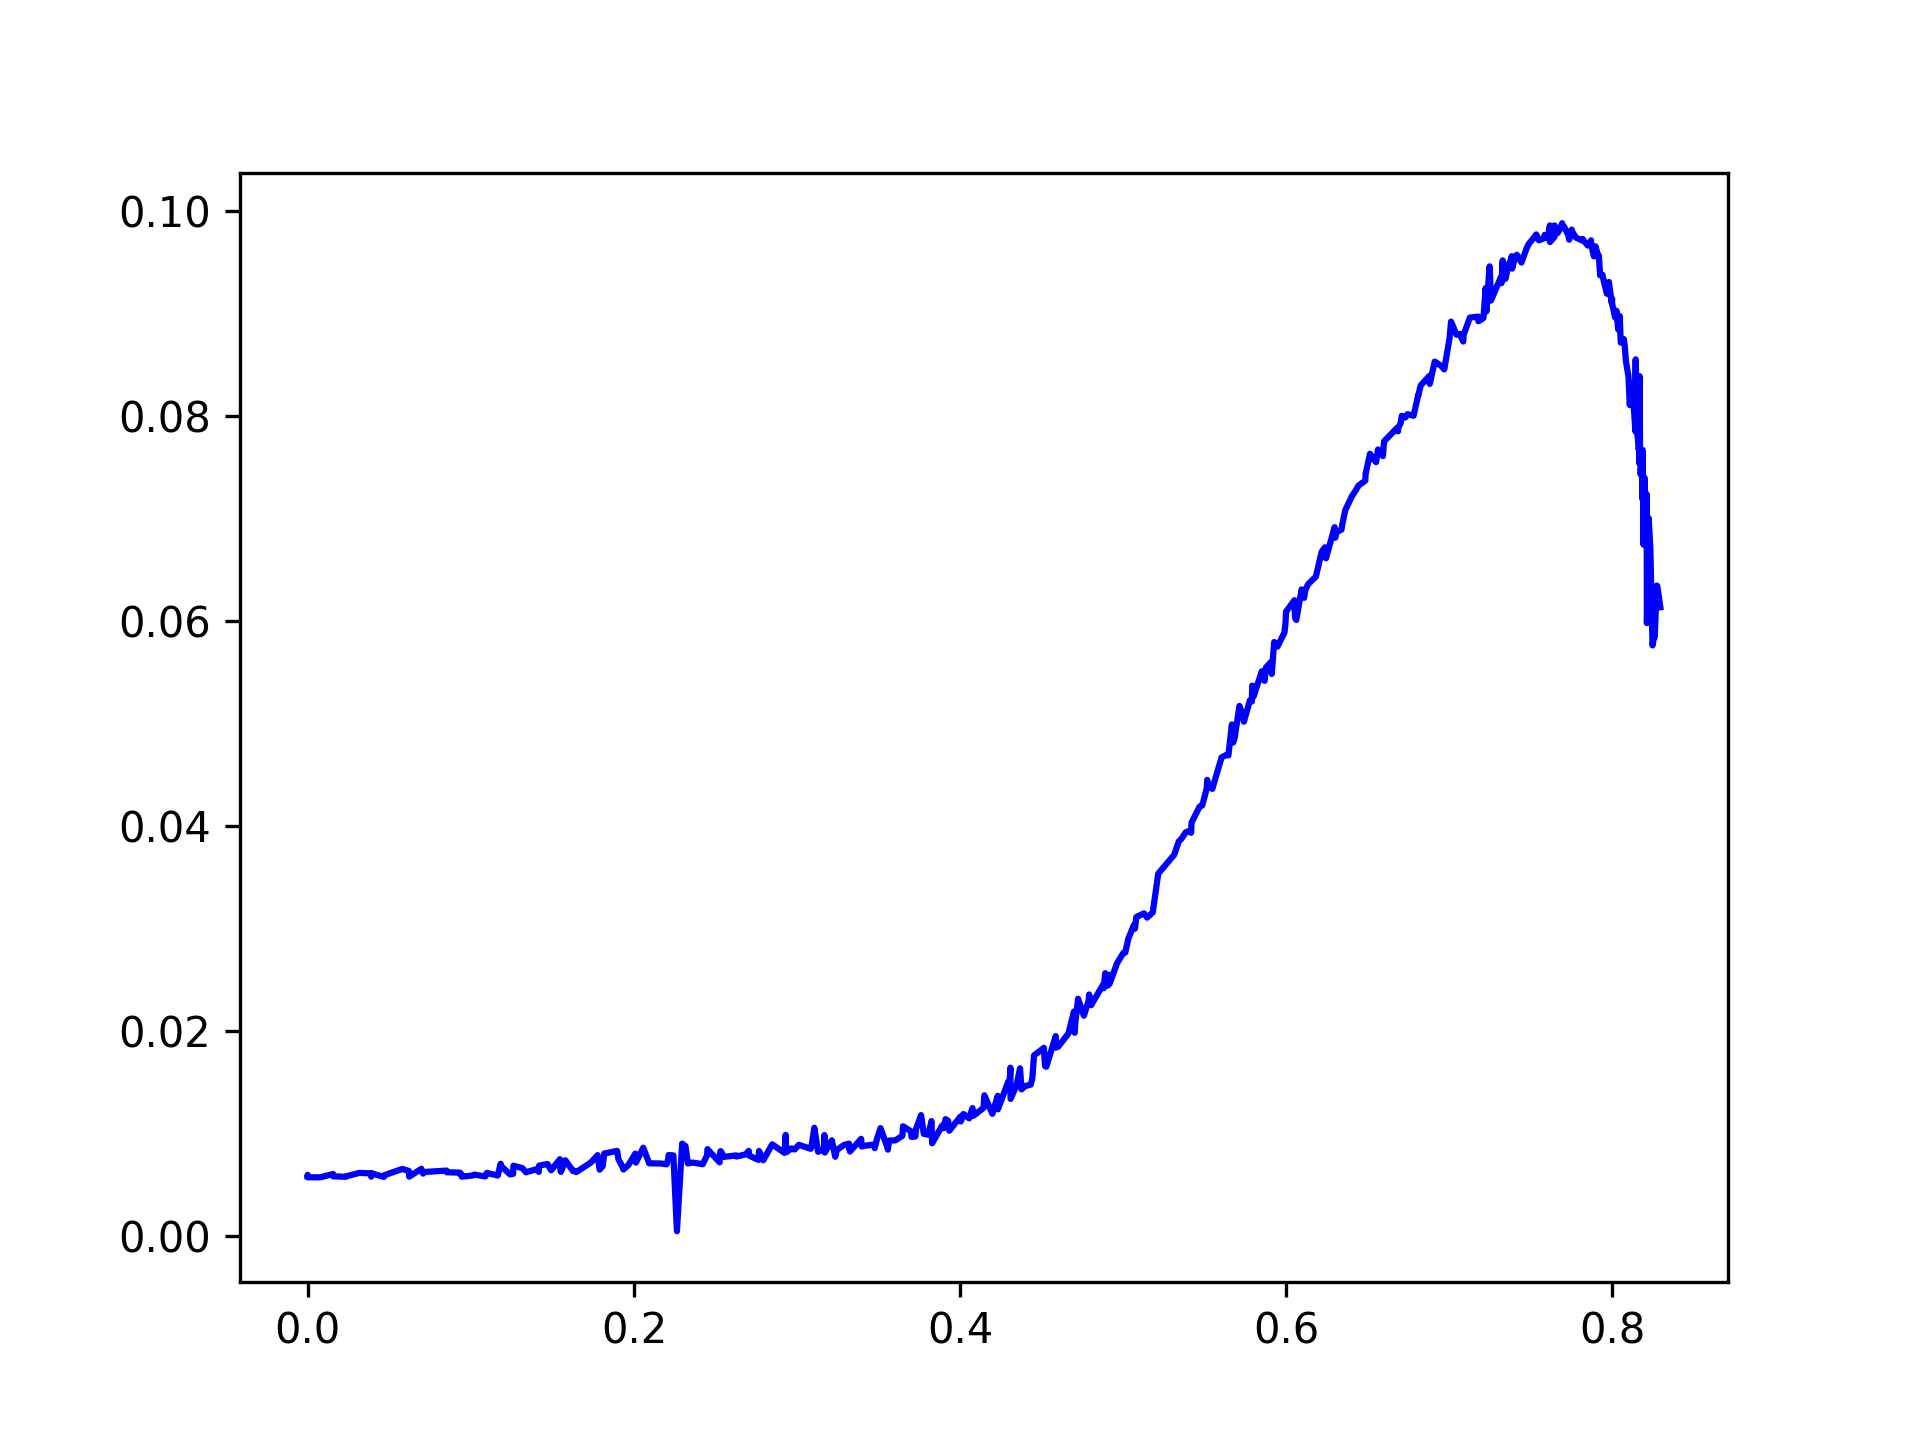
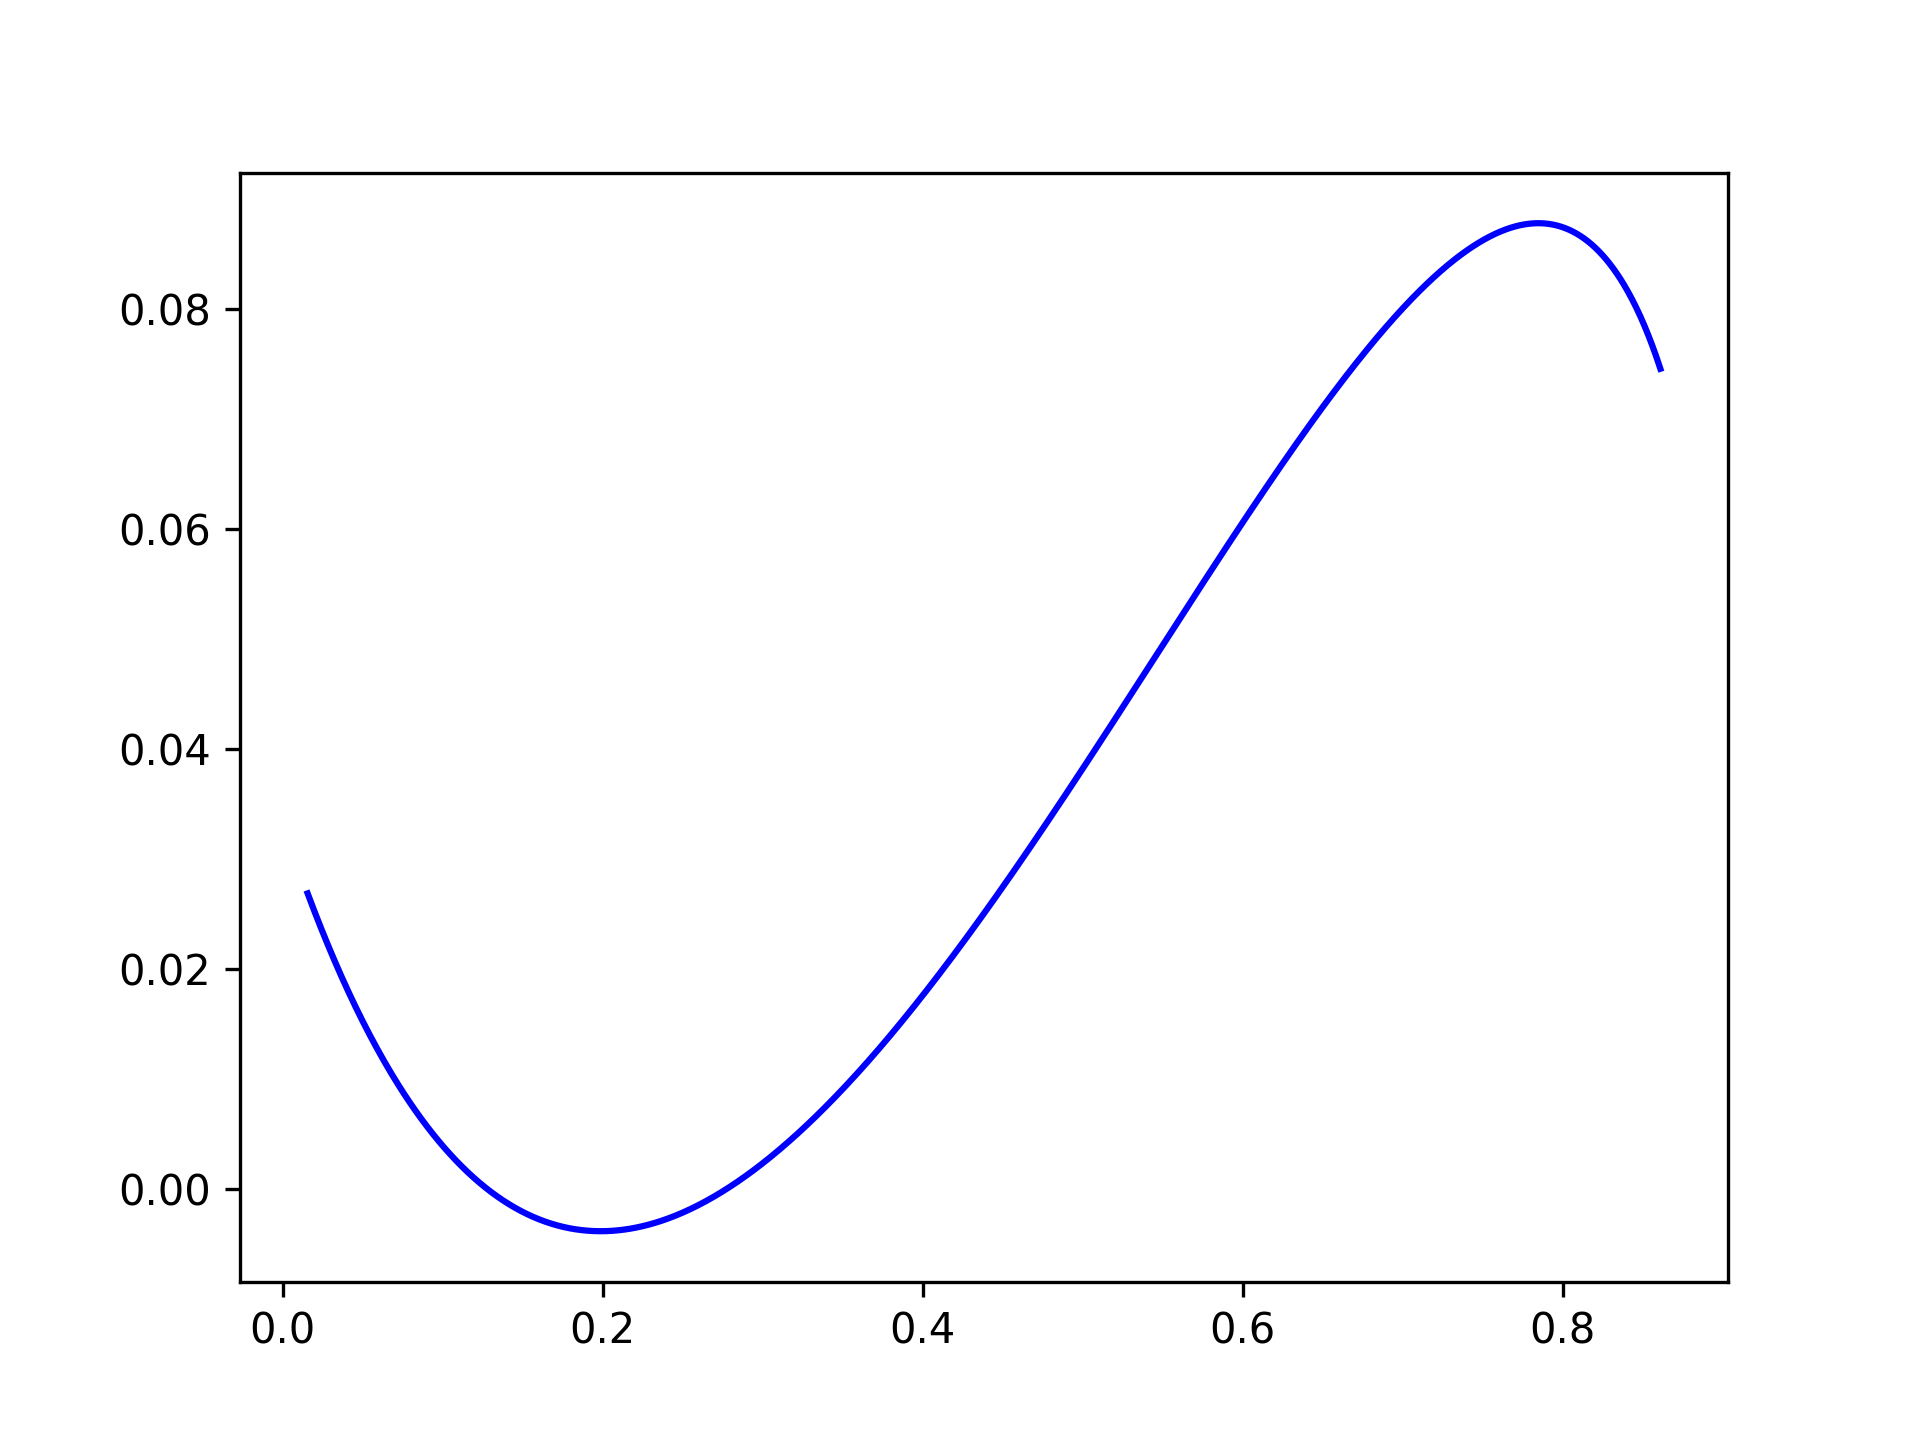
quickcommit

diff --git a/Src/3DSpin.py b/Src/3DSpin.py
@@ -5,6 +5,7 @@ import os
 import sys
 import getopt
 import numpy as np
+from scipy import interpolate as itp
 from pathos.pools import ProcessPool
 sys.path.insert(0,os.path.dirname(os.path.abspath(__file__)) + r'/DataStruct')
 from DataStructures import quicksort 
@@ -21,9 +22,9 @@ def paraplot(data,start : int,stop : int):
     #    p = ax.scatter3D(tx,ty,tz,s=5,c=tr,cmap='rainbow')
     #else:
     if data[-1] == 0:
-        p = ax.scatter3D(tx,ty,tz,s=5,c=tr,cmap='rainbow')
+        p = ax.scatter3D(tx,ty,tz,s=8,c=tr,cmap='rainbow')
     else:
-        p = ax.scatter3D(tx,ty,tz,s=5,c=tz,cmap='rainbow')
+        p = ax.scatter3D(tx,ty,tz,s=8,c=tz,cmap='rainbow')
     fig.colorbar(p)
     i = start
     while i < stop:
@@ -78,18 +79,18 @@ if __name__ == '__main__':
                     a = 0
                 elif float(row[3]) > -100000000:
                     i += 1
-                    if j % 50 == 0:
-                        x = float(row[0])
-                        y = float(row[1])
-                        z = float(row[2])
-                        r = float(row[3])
+                    x = float(row[0])
+                    y = float(row[1])
+                    z = float(row[2])
+                    r = float(row[3])
+                    if j % 25 == 0:
                         tx.append(x)
                         ty.append(y)
                         tz.append(z)
                         tr.append(r)
                         #Save x=0 data here for sep figure
-                        if y > -0.1 and y < 0.1:
-                            liner.append([z,r])
+                    if y > -0.1 and y < 0.1:
+                        liner.append([z,r])
                     j += 1
     elif mode == 1:
         with open(inpath,'r') as csvfile:
@@ -110,7 +111,6 @@ if __name__ == '__main__':
                     tx.append(x)
                     ty.append(y)
                     tz.append(z)
-    print(liner)
     if isinstance(liner,list) and len(liner) > 0:
         plt.clf()
         fig = plt.figure()
@@ -121,7 +121,9 @@ if __name__ == '__main__':
         for p in newdata:
             plotz.append(p[0])
             plotr.append(p[1])
-        plt.plot(plotz,plotr,color='blue')
+        mytck,myu = itp.splprep([plotz,plotr])
+        znew,rnew = itp.splev(np.linspace(0,1,1000),mytck)
+        plt.plot(znew,rnew,color='blue')
         plt.savefig(saveapprox)
     if nodes > 1:
         i = 0
